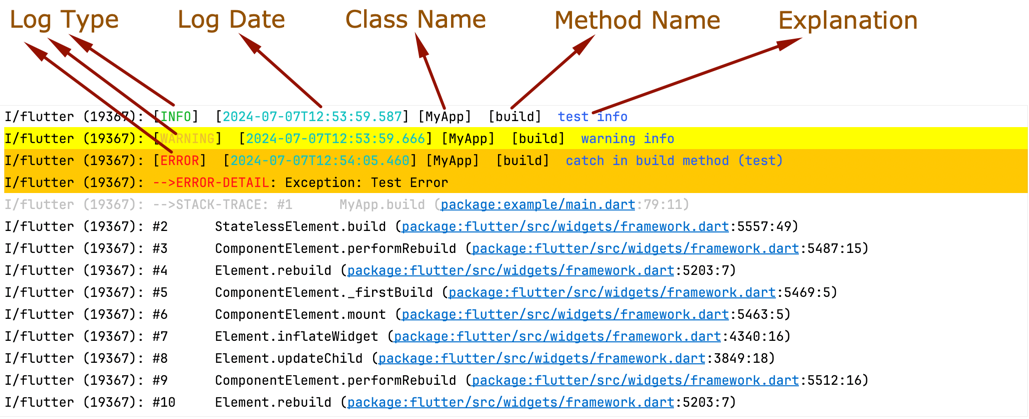
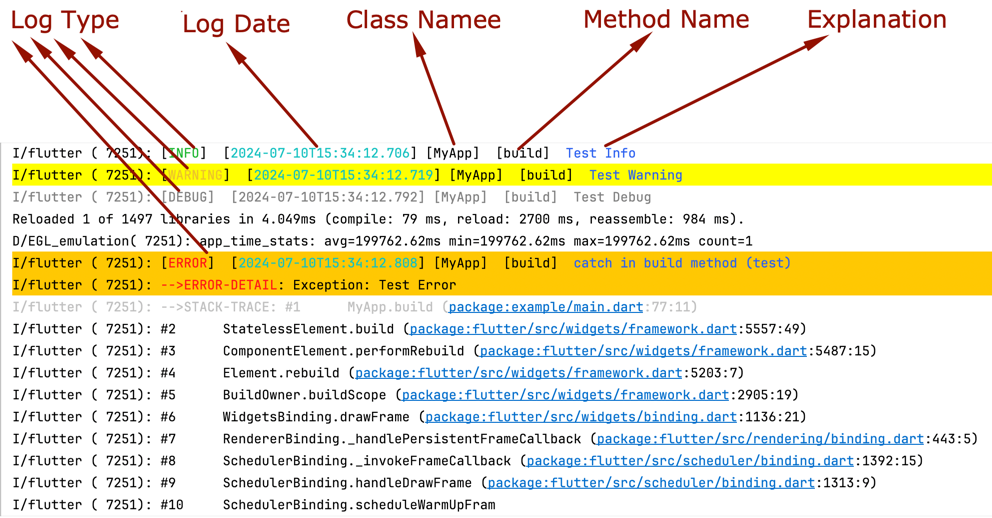
#0.3.4 refactoring

diff --git a/lib/src/model/log_info.dart b/lib/src/model/log_info.dart
@@ -75,7 +75,7 @@ class LogInfo extends BaseEntity {
     String stacktraceStr = stacktraceString.isNotEmpty ? "\n-->STACK-TRACE: $stacktraceString" : "";
     var timeString = DateTimeUtil.getDateTimeForLog(dateTime!);
 
-    return "[${logType?.name}] [$version] [$timeString][$timeZone]  [$className]  [$methodName]  $text  $errorStr  $stacktraceStr";
+    return "[${logType?.name.toUpperCase()}] [$version] [$timeString][$timeZone]  [$className]  [$methodName]  $text  $errorStr  $stacktraceStr";
   }
 
   String toStringForIos() {
@@ -83,7 +83,7 @@ class LogInfo extends BaseEntity {
     String stactraceStr = stacktraceString.isNotEmpty ? "\n-->STACK-TRACE: $stacktraceString" : "";
     var timeString = DateTimeUtil.getDateTimeForLog(dateTime!);
 
-    return "[${logType?.name}] [$version] [$timeString][$timeZone]  [$className]  [$methodName]  $text  $errorStr  $stactraceStr";
+    return "[${logType?.name.toUpperCase()}] [$version] [$timeString][$timeZone]  [$className]  [$methodName]  $text  $errorStr  $stactraceStr";
   }
 
   String toStringWithColorCode() {
@@ -91,11 +91,11 @@ class LogInfo extends BaseEntity {
     String stactraceStr = stacktraceString.isNotEmpty ? "\n${_getColorRed("-->STACK-TRACE")}: $stacktraceString" : "";
     var timeString = DateTimeUtil.getDateTimeForLog(dateTime!);
 
-    return "[$_getColorLogType]  [${_getColorCyan(timeString)}] [$className]  [$methodName]  ${_getColorBlue(text)}  $errorStr  $stactraceStr";
+    return "[$_coloredLogType]  [${_getColorCyan(timeString)}] [$className]  [$methodName]  ${_getColorBlue(text)}  $errorStr  $stactraceStr";
   }
 
-  get _getColorLogType {
-    var name = logType!.name;
+  get _coloredLogType {
+    var name = logType!.name.toUpperCase();
     switch (logType) {
       case EnumLogType.error:
         return _getColorRed(name);

diff --git a/example/lib/main.dart b/example/lib/main.dart
@@ -67,8 +67,8 @@ class MyApp extends StatelessWidget {
   @override
   Widget build(BuildContext context) {
     try {
-      Log.i("test info"); // If sending to the server is active, the first error that arrives is sent to the server.
-      Log.w("warning info"); // If sending to the server is active, the first error that arrives is sent to the server.
+      Log.i("Test Info"); // If sending to the server is active, the first error that arrives is sent to the server.
+      Log.w("Test Warning"); // If sending to the server is active, the first error that arrives is sent to the server.
       Log.d("Test Debug"); // just prints the screen
       if (1 == 1) {
         throw Exception("Test Error");

diff --git a/lib/src/logger.dart b/lib/src/logger.dart
@@ -179,7 +179,7 @@ class Log {
   static Future<void> d(String text) async {
     assert(_instanse != null, "_instanse can not be null!");
     LogInfo log = _instanse!._newLog(EnumLogType.debug, text);
-    log.logType = EnumLogType.warning;
+    log.logType = EnumLogType.debug;
     var current = StackTrace.current.toString();
     var previusStack = _getStack(current);
     log.stackTrace = previusStack;

diff --git a/README.md b/README.md
@@ -12,7 +12,7 @@ If the server submission function is active, Log Tracking stores your logs in th
 
 ```yaml
 dependencies:
-  log_tracking: 0.3.2
+  log_tracking: ^0.3.4
 ```
 
 ### 2. Initialize log_tracking
@@ -94,9 +94,9 @@ You can print the logs as follows:
 
 ```dart
     try {
-      Log.i("test info"); // If sending to the server is active, the first error that arrives is sent to the server.
-      Log.w("warning info"); // If sending to the server is active, the first error that arrives is sent to the server.
-      Log.d("Test Debug"); // just prints the screen
+        Log.i("Test Info"); // If sending to the server is active, the first error that arrives is sent to the server.
+        Log.w("Test Warning"); // If sending to the server is active, the first error that arrives is sent to the server.
+        Log.d("Test Debug"); // just prints the screen
       if (1 == 1) {
         throw Exception("Test Error");
       }
